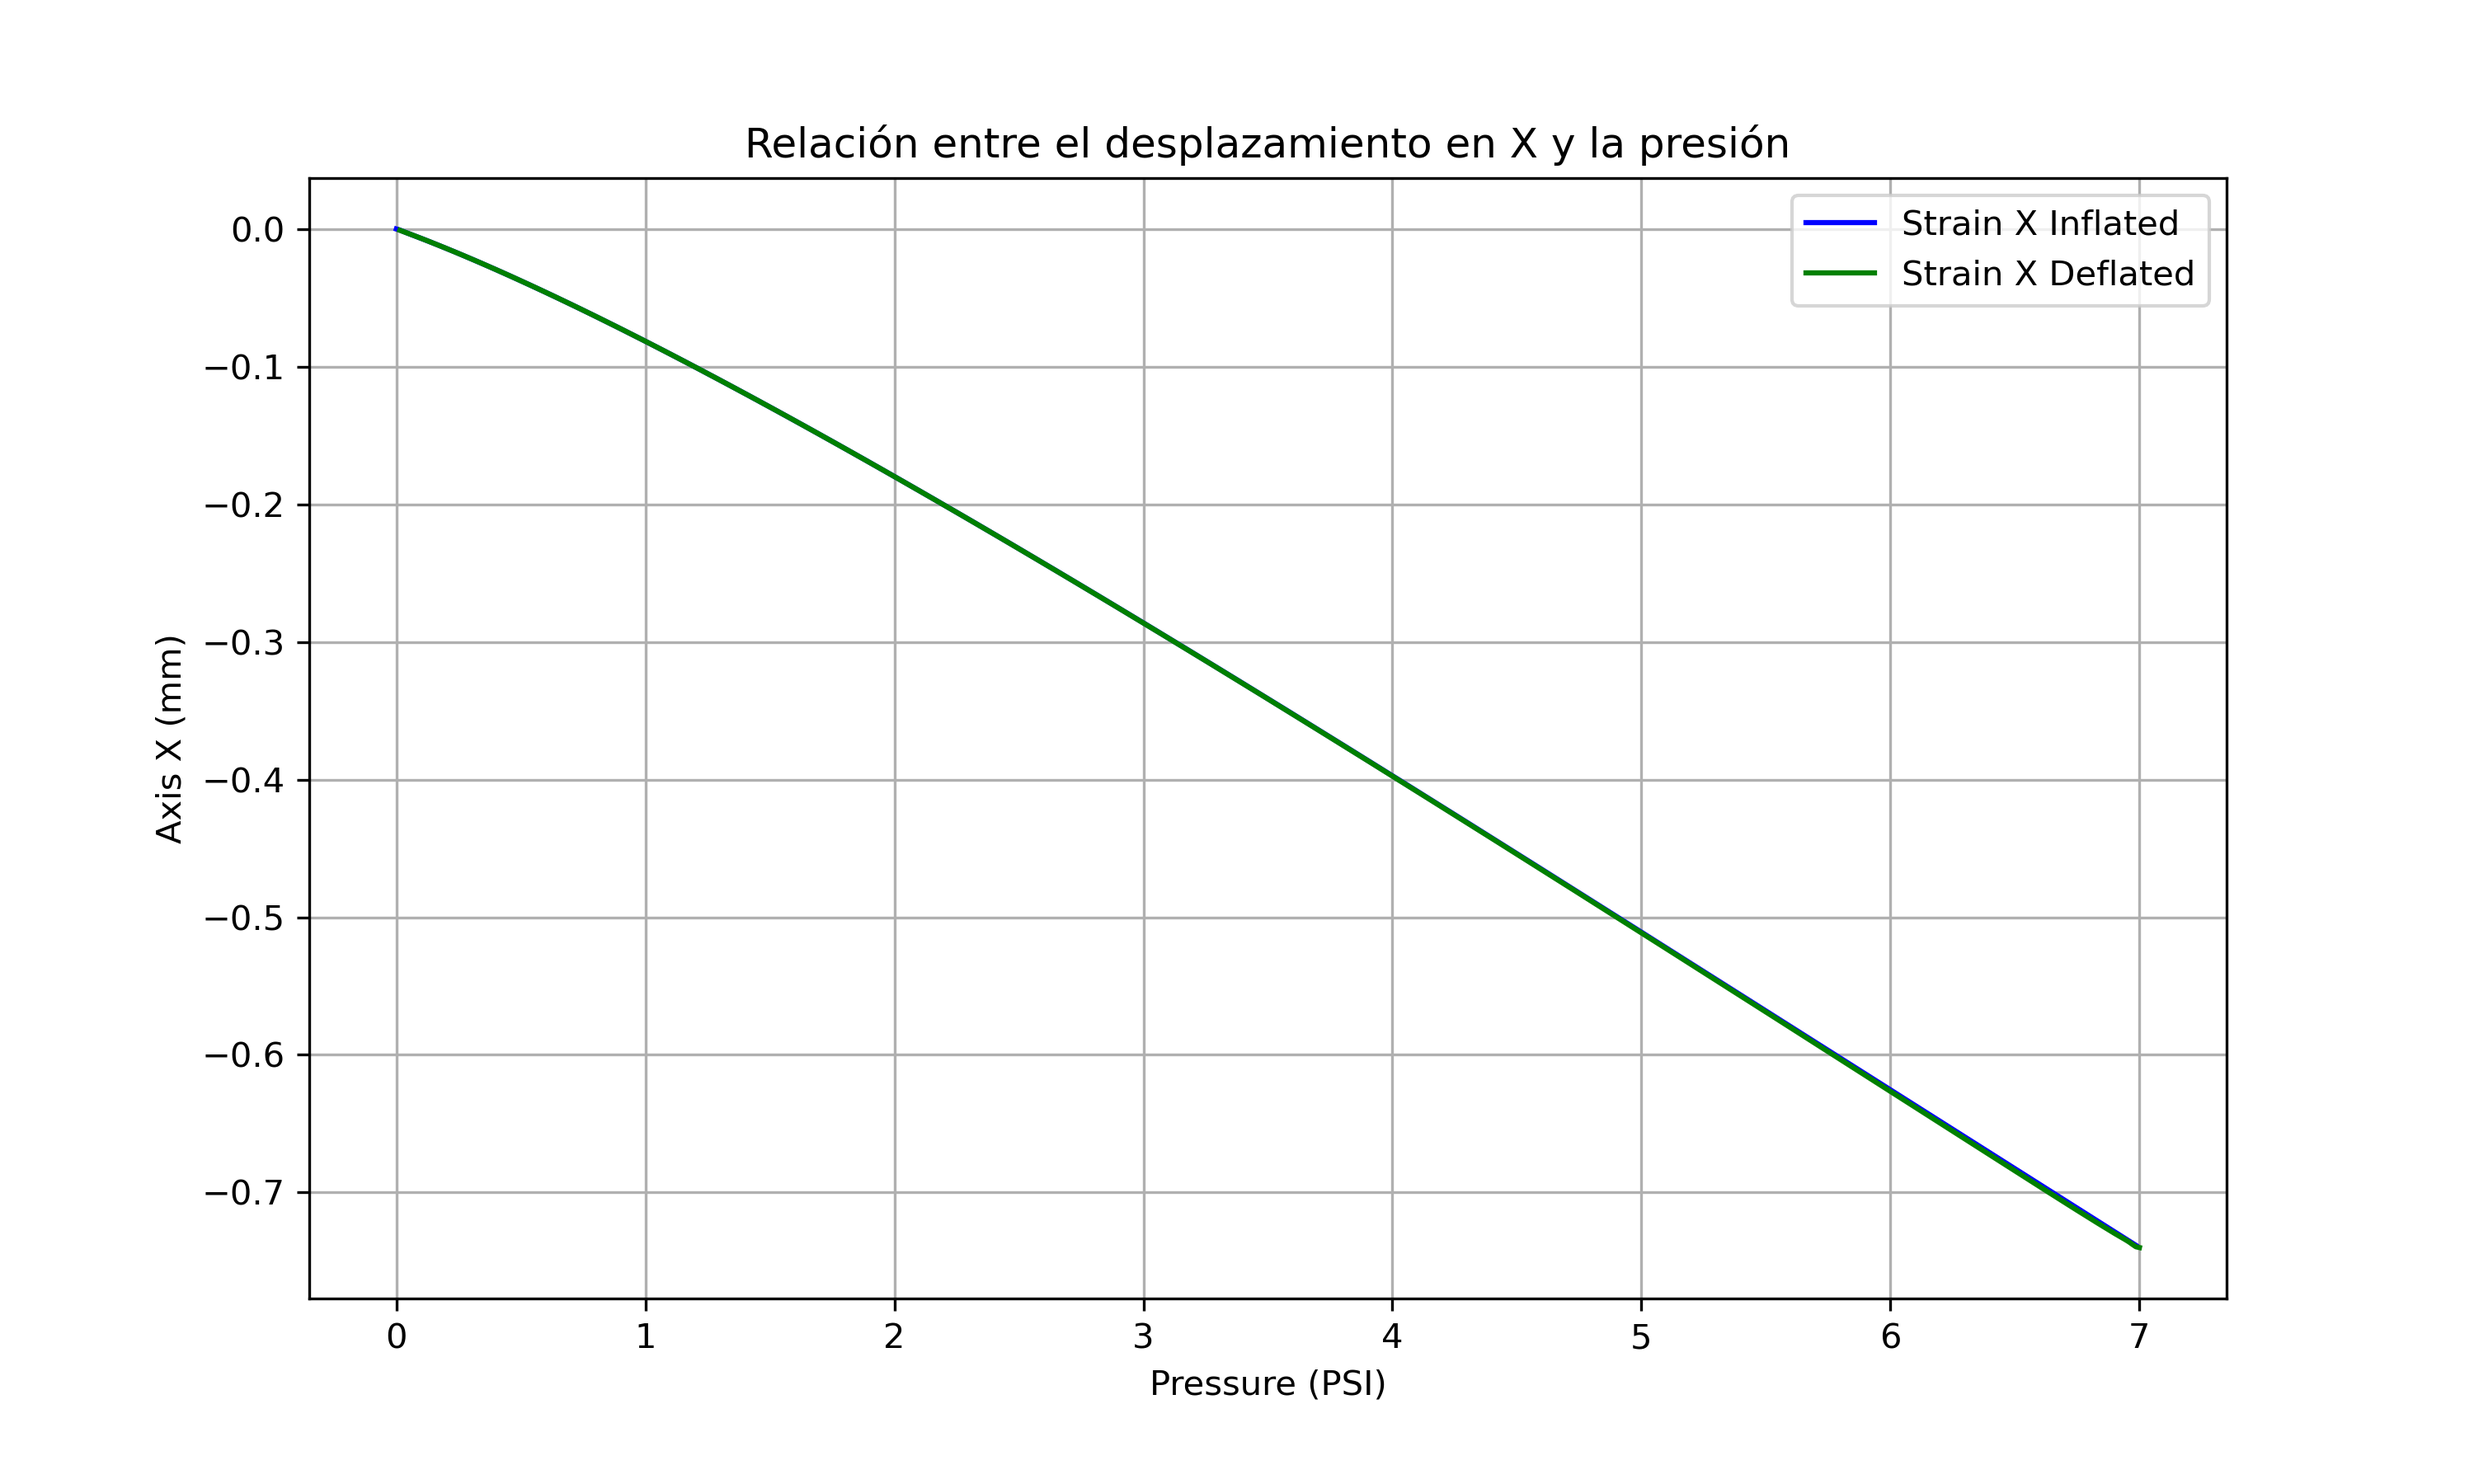
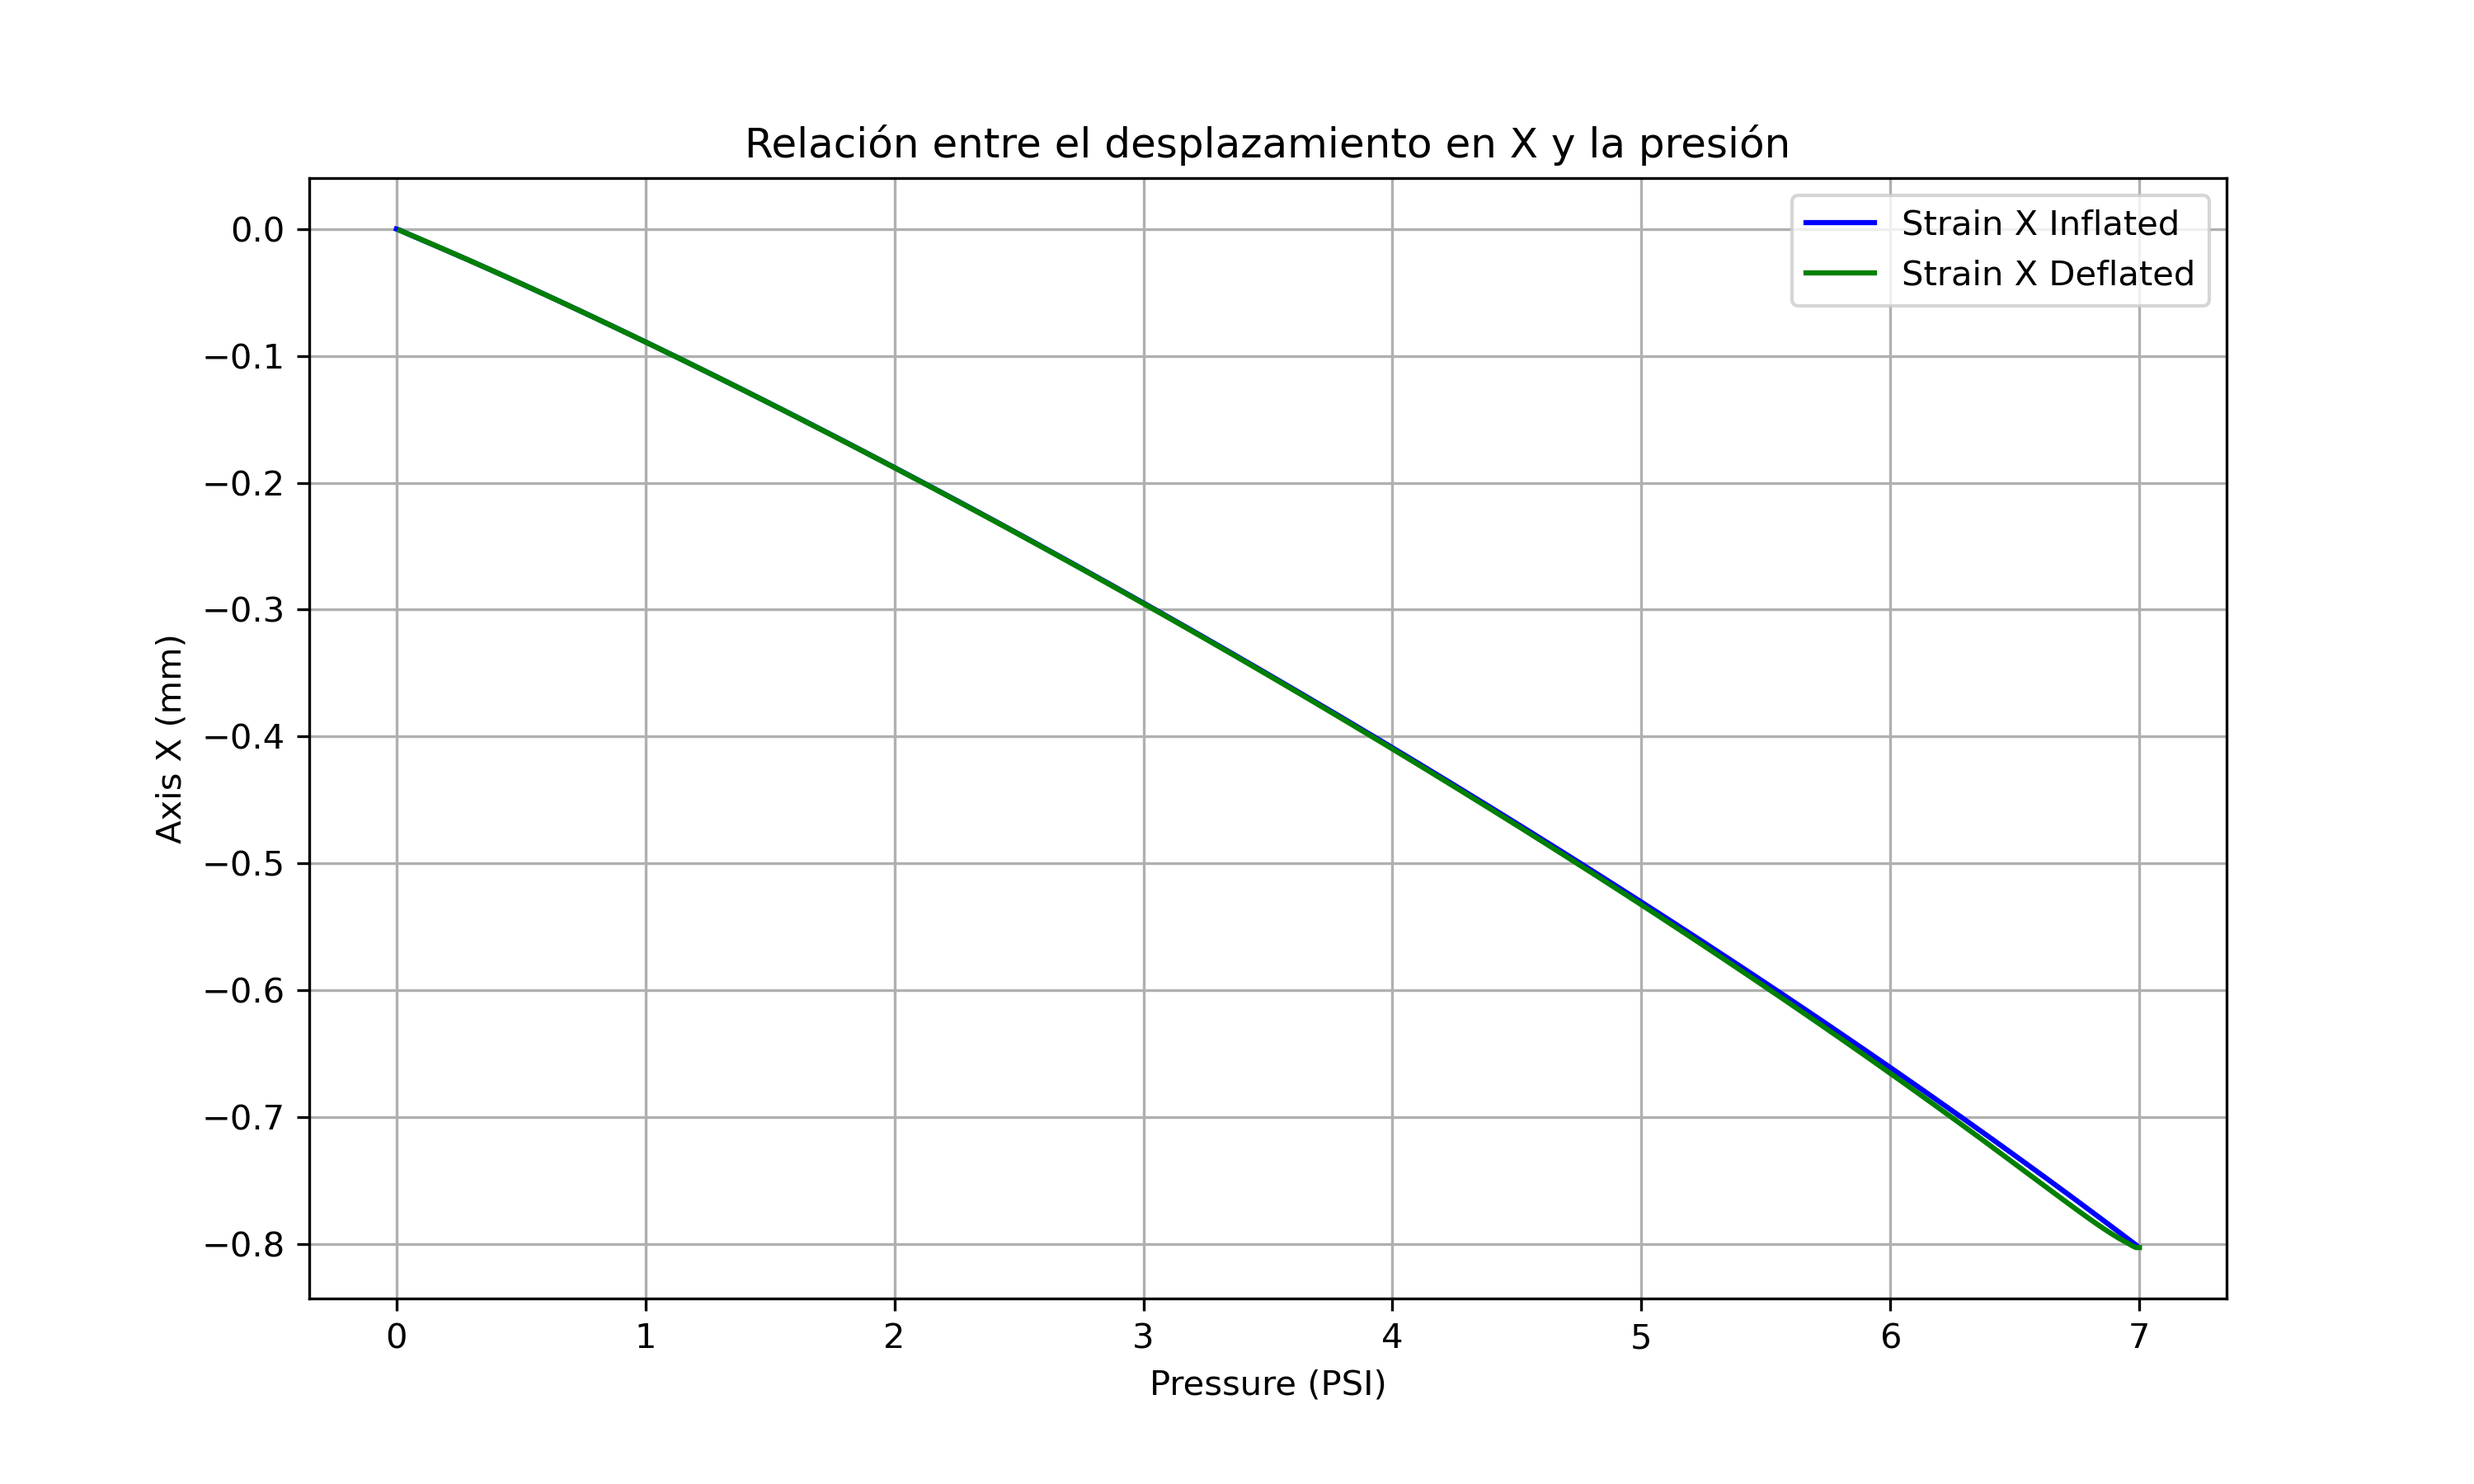
added

diff --git a/Scenes/Scene_estirar/graphics.py b/Scenes/Scene_estirar/graphics.py
@@ -9,7 +9,7 @@ Created on Tue Aug 20 18:08:37 2024
 import pandas as pd
 import matplotlib.pyplot as plt
 
-df = pd.read_csv('end_effector_data_Estirar_hyper.csv')
+df = pd.read_csv('end_effector_data_Estirar_hyper4.csv')
 
 Time = df['Time'].values
 Pressure = df['Pressure'].values
